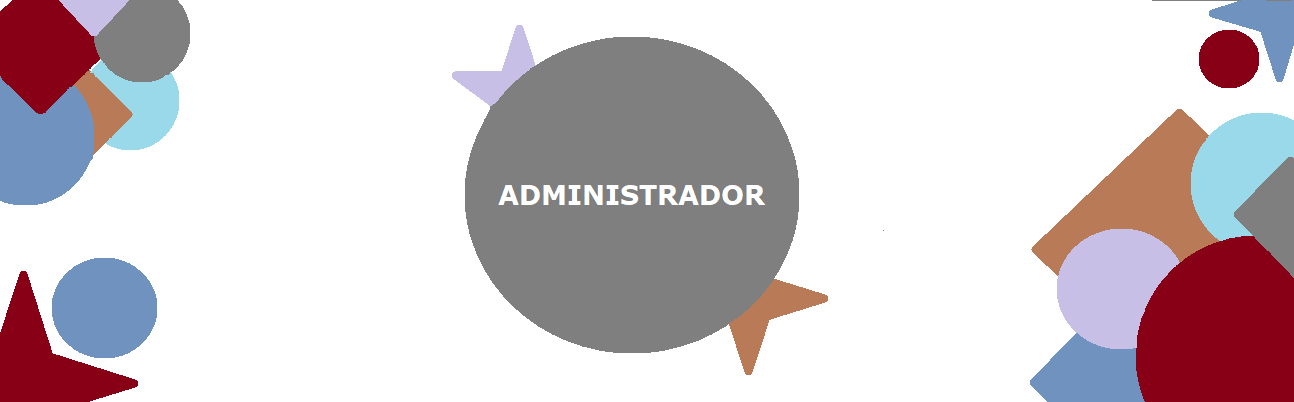
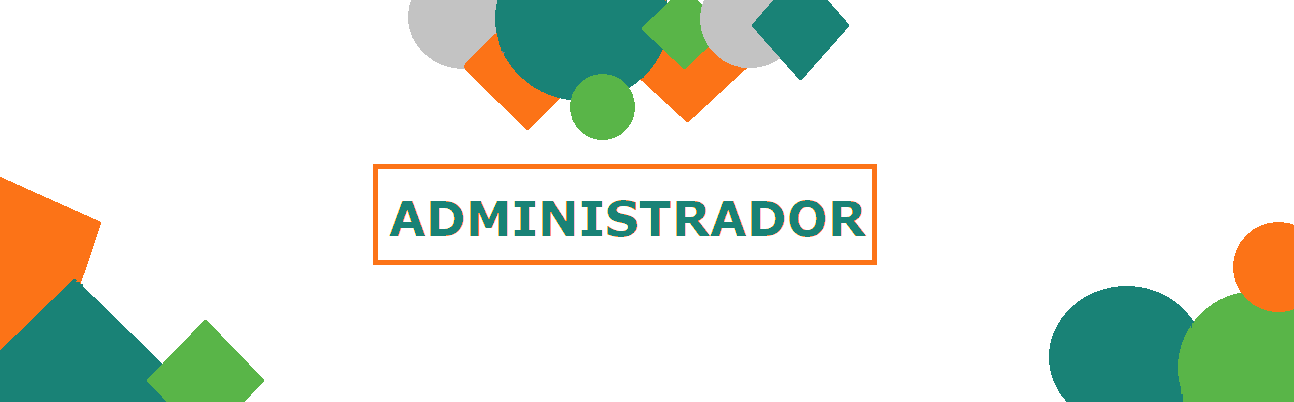
modificacion interfaz admin

diff --git a/administrador/adminis.css b/administrador/adminis.css
@@ -22,7 +22,7 @@ body {
     font-size: 25px;
     margin-left: 13%;
     margin-top: 1%;
-    color: rgb(65, 65, 66);
+    color: rgb(25, 130, 118);
 }
 
 .imagen{
@@ -42,7 +42,7 @@ body {
 }
 .segu{
     position: absolute;
-    margin-left: 85.3%;
+    margin-left: 84.2%;
     z-index: 1;
     margin-top: -1.9%;
 }
@@ -54,7 +54,7 @@ body {
     position: absolute;
     margin-top: 5%;
     margin-left: 16px;
-    border-color: rgb(97, 0, 16) transparent;
+    border-color: #fc7323 transparent;
     border-style: solid;
     border-width: 5px;
     text-align: center;
@@ -63,7 +63,7 @@ body {
 .cerrar li a{
     font-family: Verdana;
     font-size: 15px;
-    color: #5d57bb;
+    color: rgb(25, 130, 118);
 }
 .cerrar {
     position: absolute;
@@ -93,7 +93,7 @@ body {
 .menu  li a {
     display: block;
     padding: 15px 20px;
-    color: rgb(61, 61, 61);
+    color: black;
     font-family: Verdana;
     text-decoration: none;
 }
@@ -158,7 +158,7 @@ body {
     margin-top: 29%;
     color: rgb(255, 255, 255);
     font-size: 15px;
-    background: #26287a;
+    background: rgb(89, 181, 72);
     top: 410px;
     margin-left: 1000px;
     border-radius: 20px;
@@ -166,7 +166,7 @@ body {
 }
 
 .button:hover{
-    background-color: rgb(100, 8, 8);
+    background-color: rgb(25, 130, 118);
     color: white;
   
 }
@@ -192,15 +192,15 @@ body {
     top: 490px;
     margin-left: 810px;
     border-radius: 20px;
-    border-color: #4d0505 transparent;
+    border-color: rgb(25, 130, 118) transparent;
     border-style: solid;
     border-width: 2px;
     }
     
 .button2:hover{
        
-        background-color: rgb(92, 17, 21);
-        color: white;
+    background-color: rgb(25, 130, 118);
+    color: white;
 }
 .button3 .butdos{
     margin-right: 15px;
@@ -224,14 +224,14 @@ body {
         top: 470px;
         margin-left: 520px;
         border-radius: 20px;
-        border-color: #4d0505 transparent;
+        border-color: rgb(25, 130, 118) transparent;
         border-style: solid;
         border-width: 2px;
     }
     
     .button3:hover {
         color: white;
-        background-color: rgb(92, 17, 21);
+        background-color: rgb(25, 130, 118);
     }
     .button4 .buttres{
         margin-right: 15px;
@@ -255,26 +255,26 @@ body {
         top: 470px;
         margin-left: -550px;
         border-radius: 20px;
-        border-color: #4d0505 transparent;
+        border-color: rgb(25, 130, 118) transparent;
         border-style: solid;
         border-width: 2px;
     }
     
     .button4:hover{
-        background-color: rgb(92, 17, 21);
+        background-color: rgb(25, 130, 118);
         color: white;
         
     }
 
 .pie {
-    background-color: #420b0b;
+    background-color: #fc7323;
     margin-top:600px;
 }
 .pie{
     position: relative;
     width: 100%;
     height: 75px;
-    background-color: #460d0d;
+    background-color:#fc7323;
     margin-top:600px;
     display: flex;
     align-items: flex-end;

diff --git a/administrador/admin.html b/administrador/admin.html
@@ -20,7 +20,7 @@
                 <img height="220" src="../imagenes/adminis.jpg.png" alt="">
             </div>
             <div class="segu">
-                <img height="200" src="../imagenes/senaadmin.jpg.png" alt="">
+                <img height="200" src="../imagenes/verdemoco.png" alt="">
             </div>
         </div>
 
